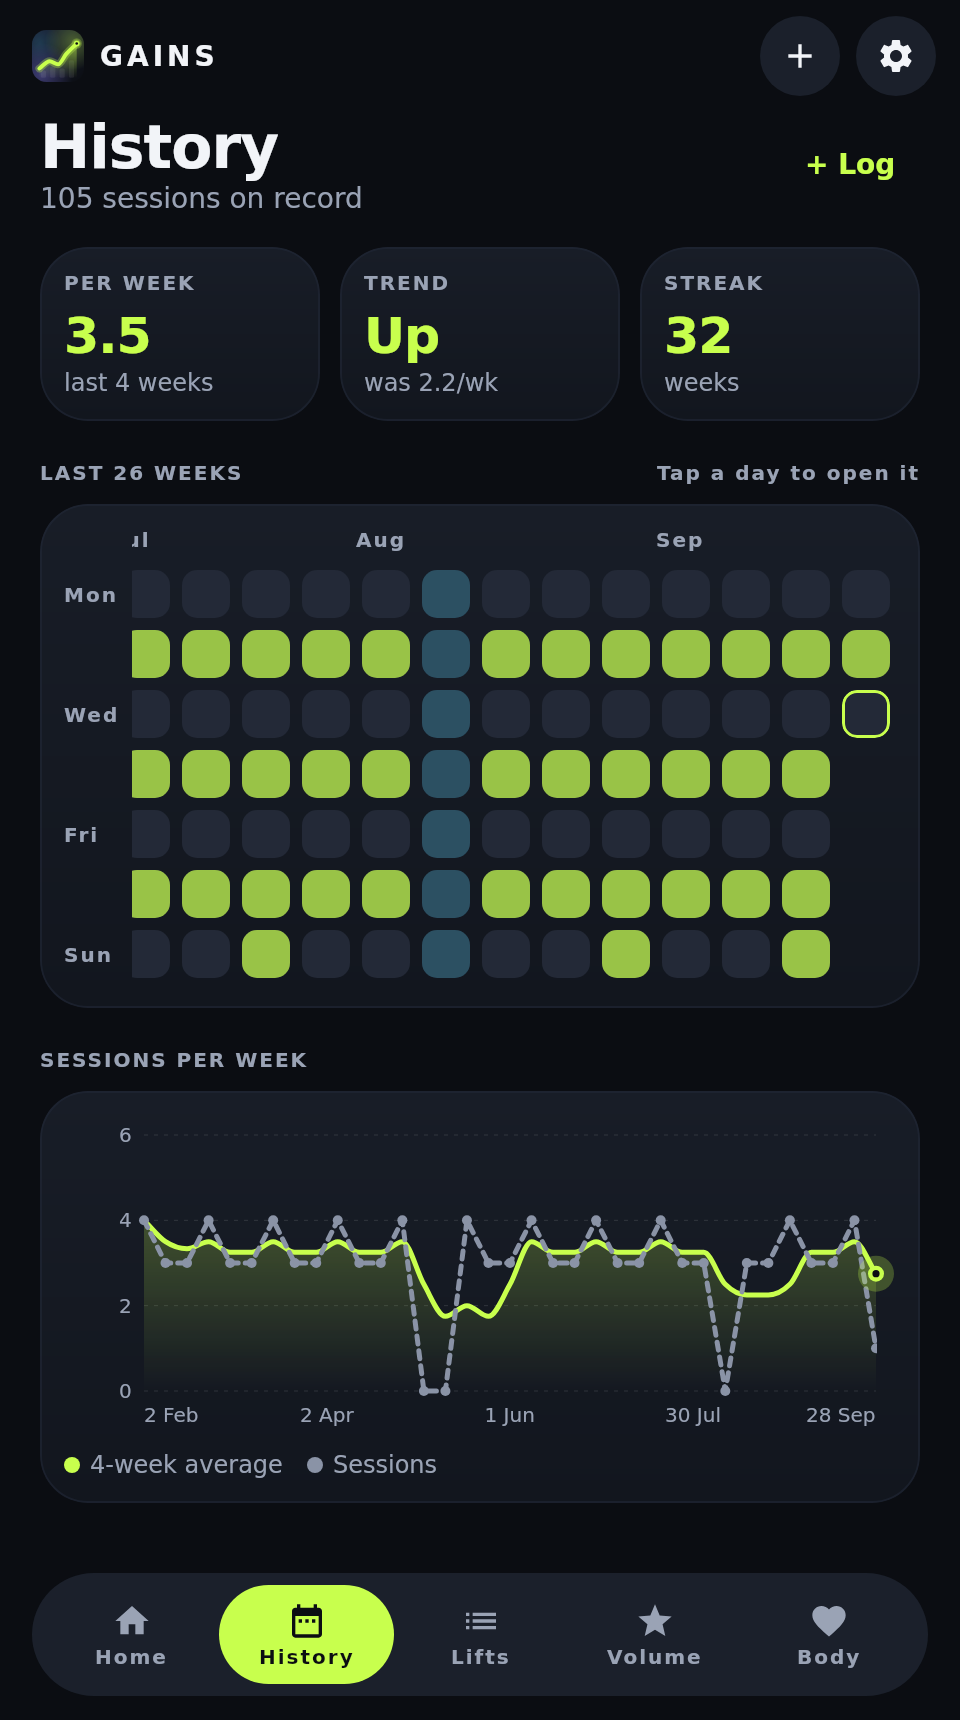
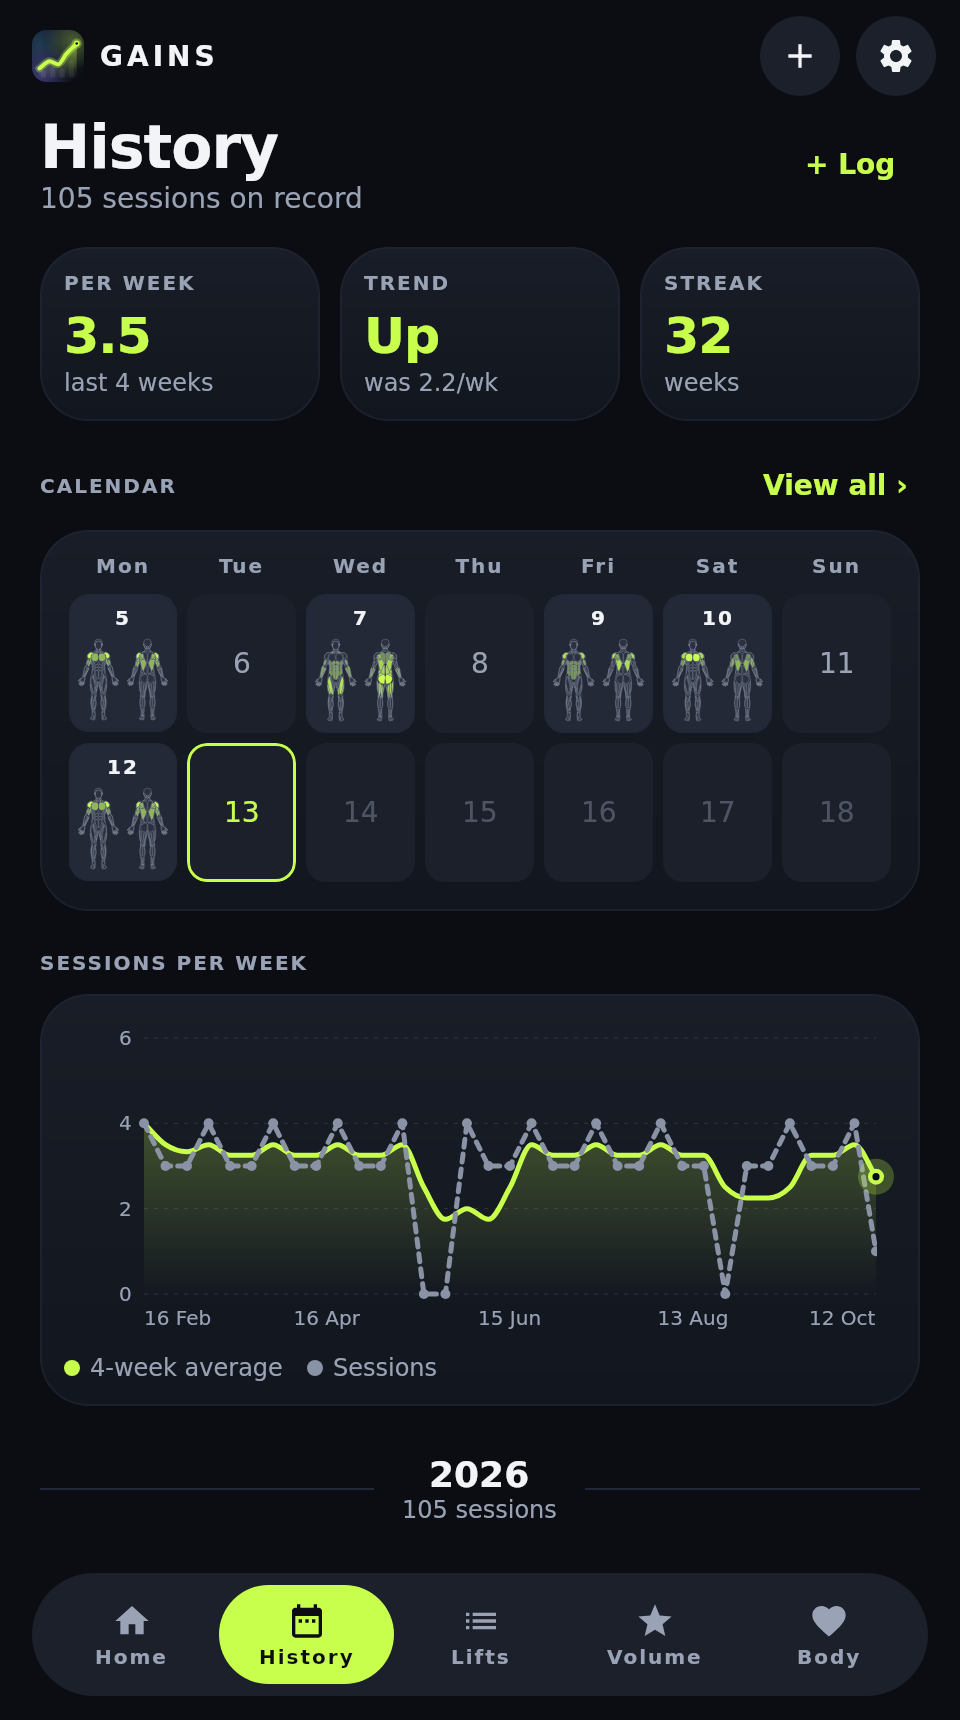
Screenshot the calendar's View all screen; refresh the History shot
Claude-Session: https://claude.ai/code/session_01MQGvRQbPn7vpxmy3Xfps89

diff --git a/composeApp/src/desktopTest/kotlin/app/gains/ScreenshotTest.kt b/composeApp/src/desktopTest/kotlin/app/gains/ScreenshotTest.kt
@@ -306,6 +306,13 @@ class ScreenshotTest {
         require(text("Calendar"))
         settle(1_500)
         shot("04-history")
+        // View all: every month as a calendar, this one first.
+        onNode(text("View all") and hasClickAction()).performClick()
+        require(text("sessions on record"))
+        settle(1_500)
+        shot("04b-calendar")
+        onNode(hasContentDescription("Back") and hasClickAction()).performClick()
+        require(text("Calendar"))
 
         // 5. Lifts list and a lift's detail.
         tab("Lifts")
